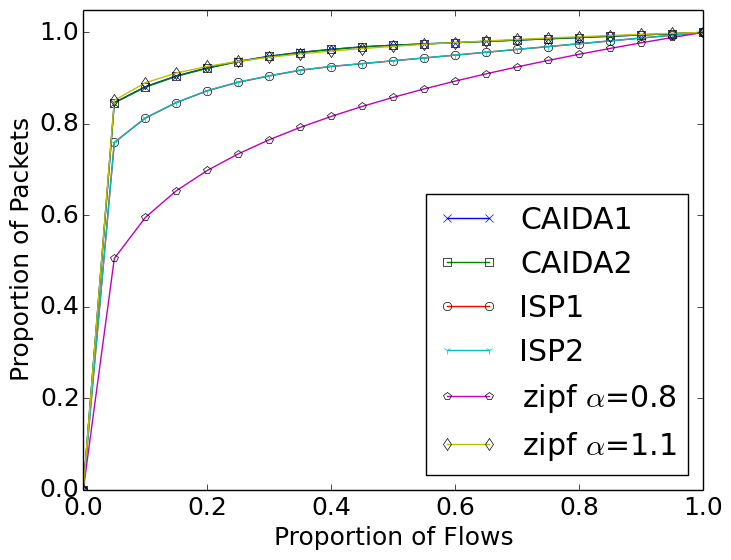
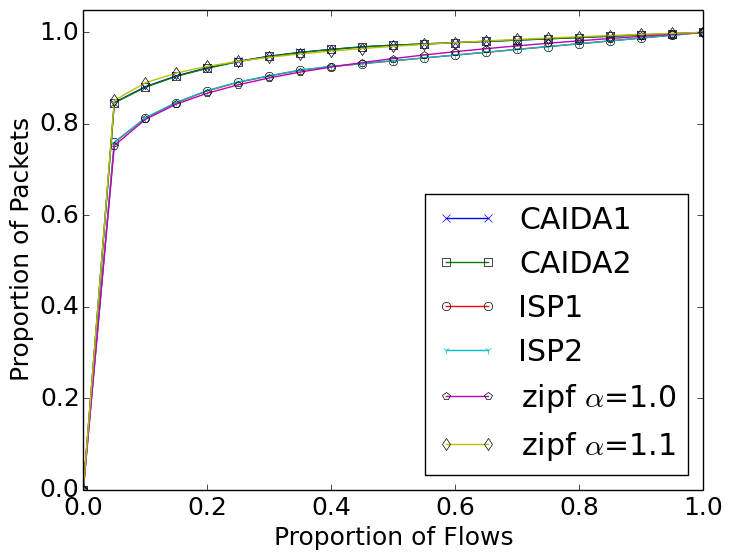
Automatic uploading. No comments!

diff --git a/figures/exp84507/plot.py b/figures/exp84507/plot.py
@@ -36,7 +36,7 @@ if __name__ == "__main__":
 	plt.plot(idx2, cdf2, label = "CAIDA2", marker = "s", mfc="none")
 	plt.plot(idx3, cdf3, label = "ISP1", marker = "o", mfc="none")
 	plt.plot(idx4, cdf4, label = "ISP2", marker = "1", mfc="none")
-	plt.plot(idx5, cdf5, label = r"zipf $\alpha$=0.8", marker = "p", mfc="none")
+	plt.plot(idx5, cdf5, label = r"zipf $\alpha$=1.0", marker = "p", mfc="none")
 	plt.plot(idx6, cdf6, label = r"zipf $\alpha$=1.1", marker = "d", mfc="none")
 #	plt.plot(range(5), are_hw, label = "Hardware", marker = "o")
 #	plt.legend(bbox_to_anchor=(0.0, 1.02, 1.0, 0.102), loc = 3, ncol = 2, mode = "expand", borderaxespad = 0.0)
